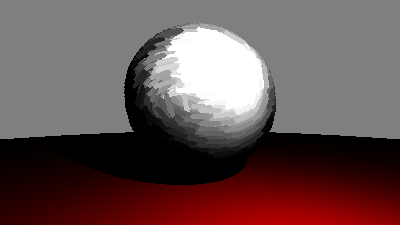
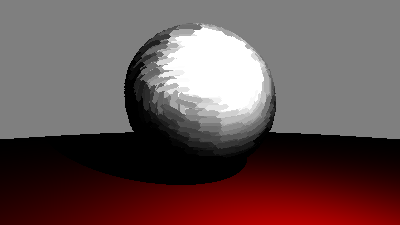
Removed unused variables

diff --git a/painterlyraytracer/pathtracer.cpp b/painterlyraytracer/pathtracer.cpp
@@ -185,13 +185,12 @@ int process_tokens(std::vector<std::string> &tokens) {
 
 Ray get_ray(int x, int y) {
     Ray ray;
-    Vec3 sx_right, sy_up, sr_su, direction;
 
     float denominator = std::max(width, height);
     float sx = (2 * x - width) / denominator;
     float sy = (height - 2 * y) / denominator;
 
-    sr_su = (right * sx) + (up * sy);
+    Vec3 sr_su = (right * sx) + (up * sy);
     ray.direction = (forward + sr_su).norm();
     ray.origin = eye;
 

diff --git a/painterlyraytracer/lights.h b/painterlyraytracer/lights.h
@@ -38,8 +38,7 @@ public:
     }
 
     double distance(const Intersection &intersection) const override {
-        double d = (position - intersection.point).mag();
-        return d;
+        return (position - intersection.point).mag();
     }
 
     double intensity(const Intersection &intersection) const override {
